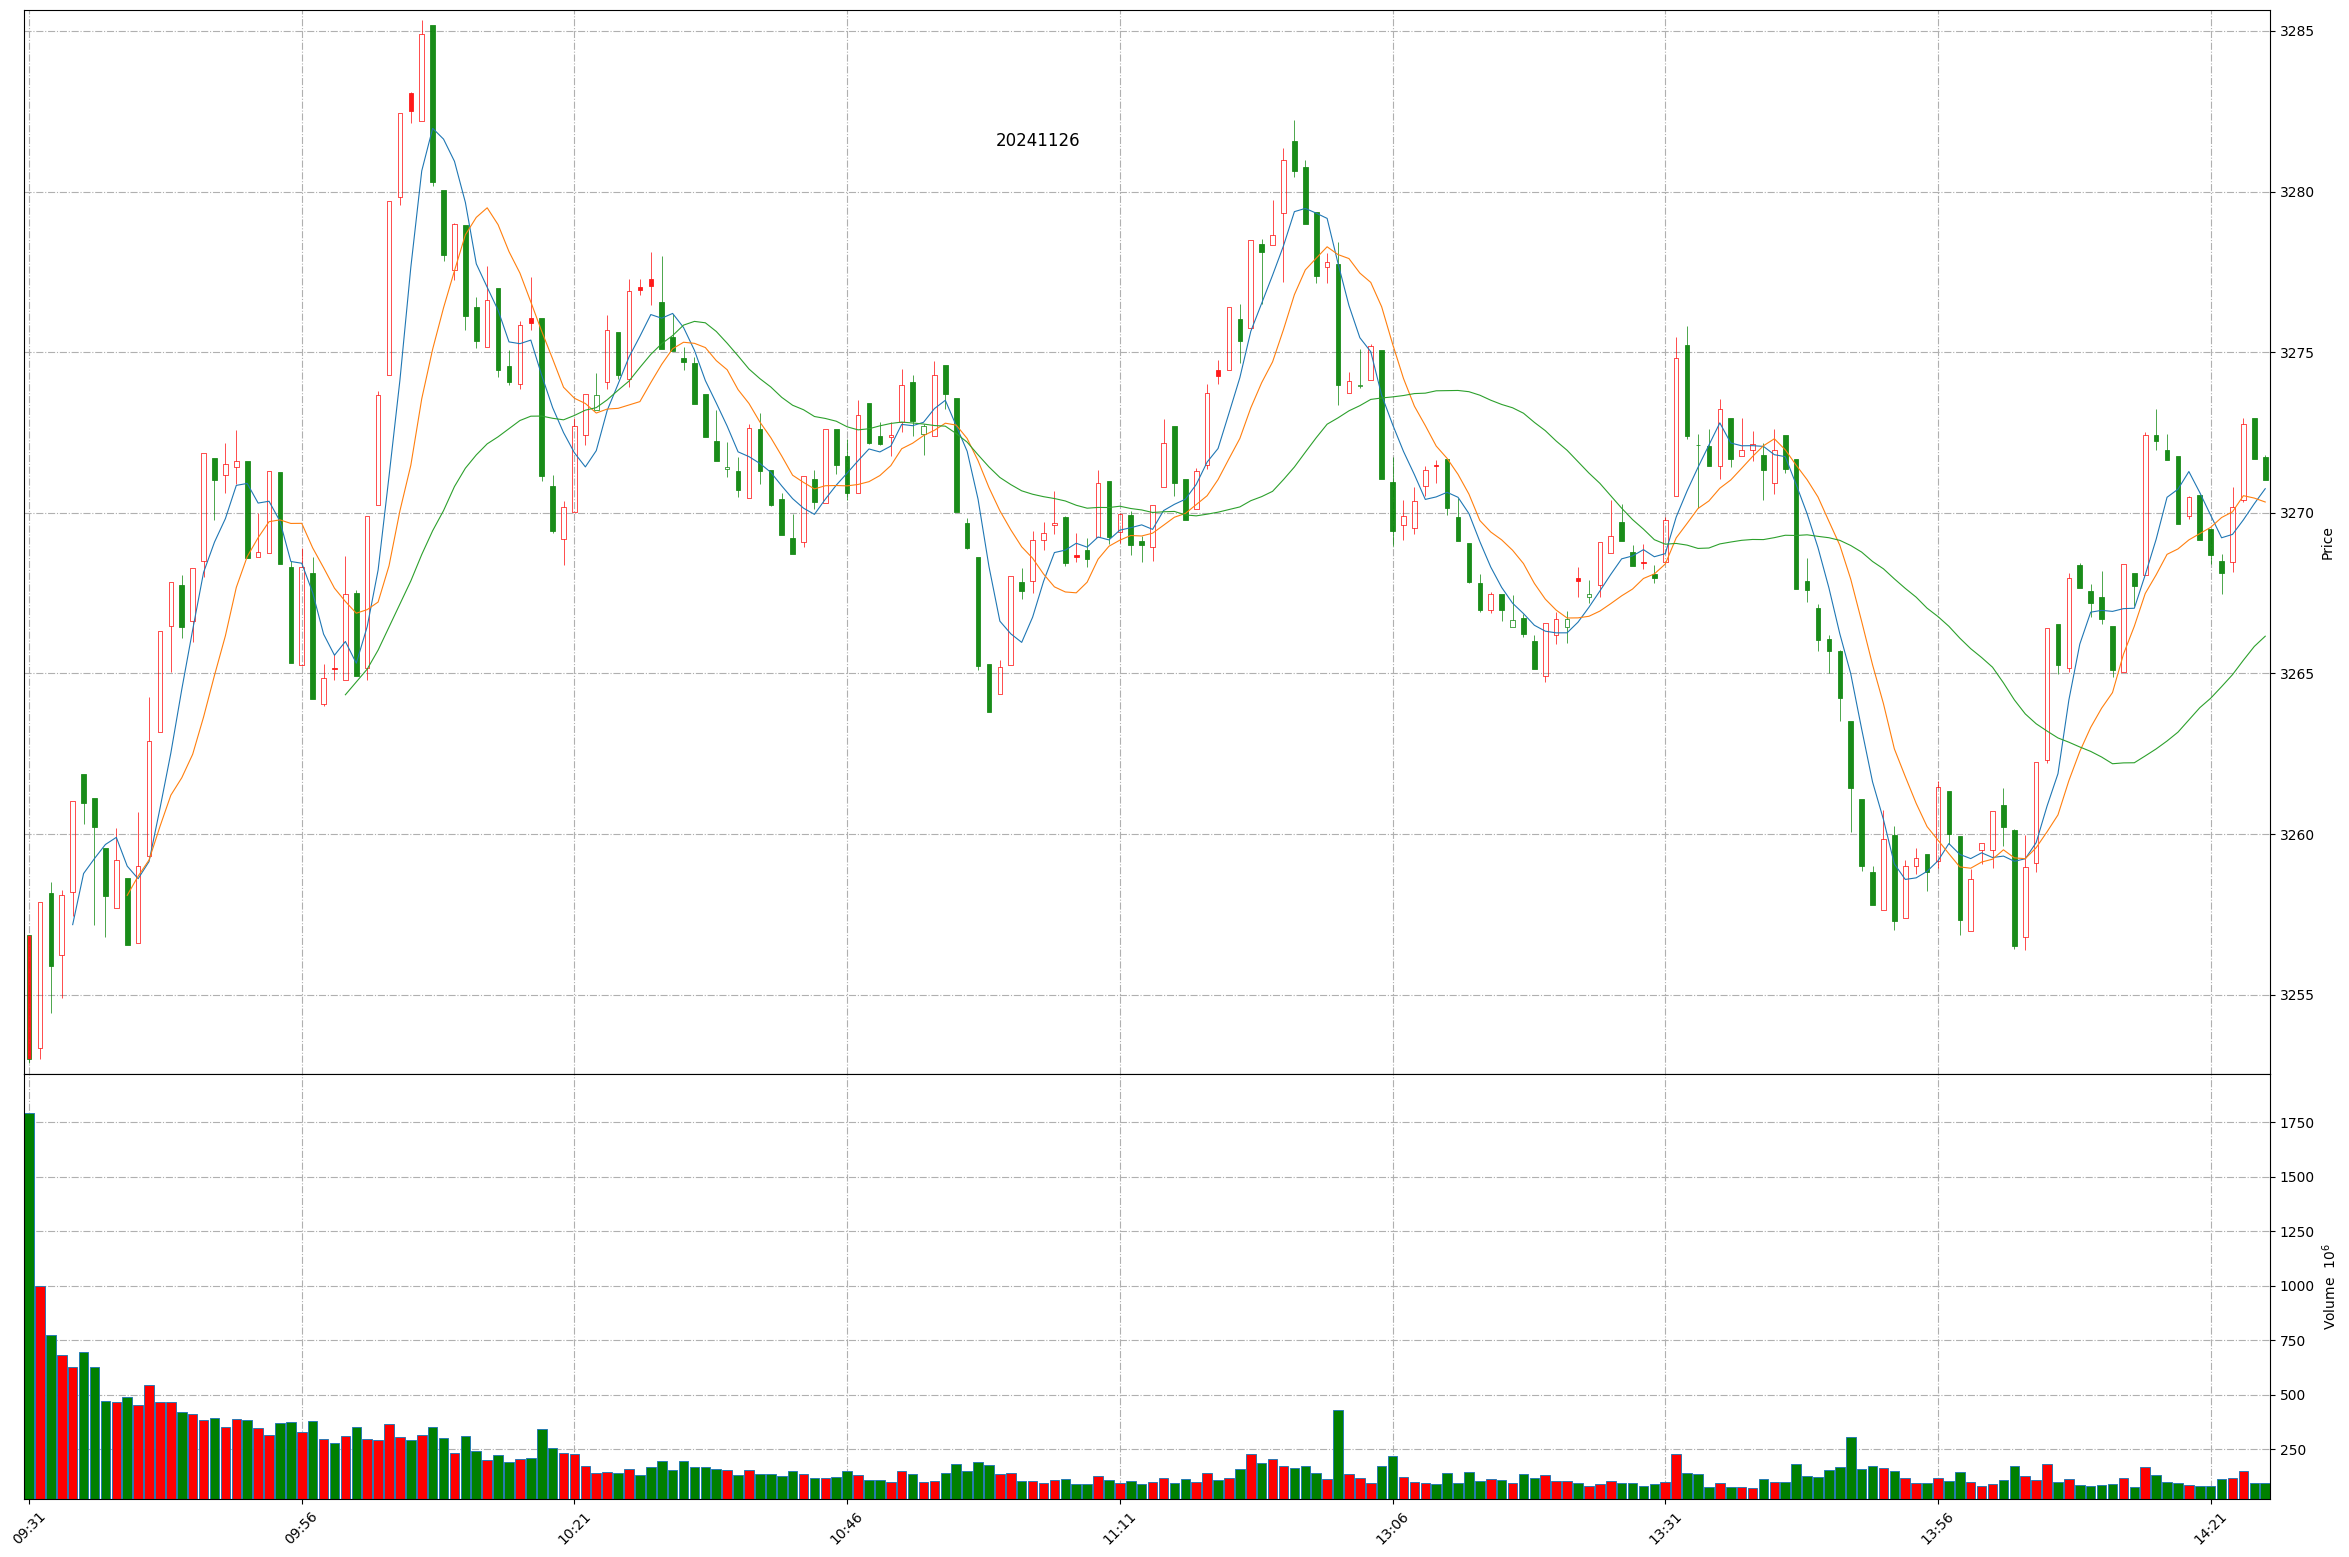
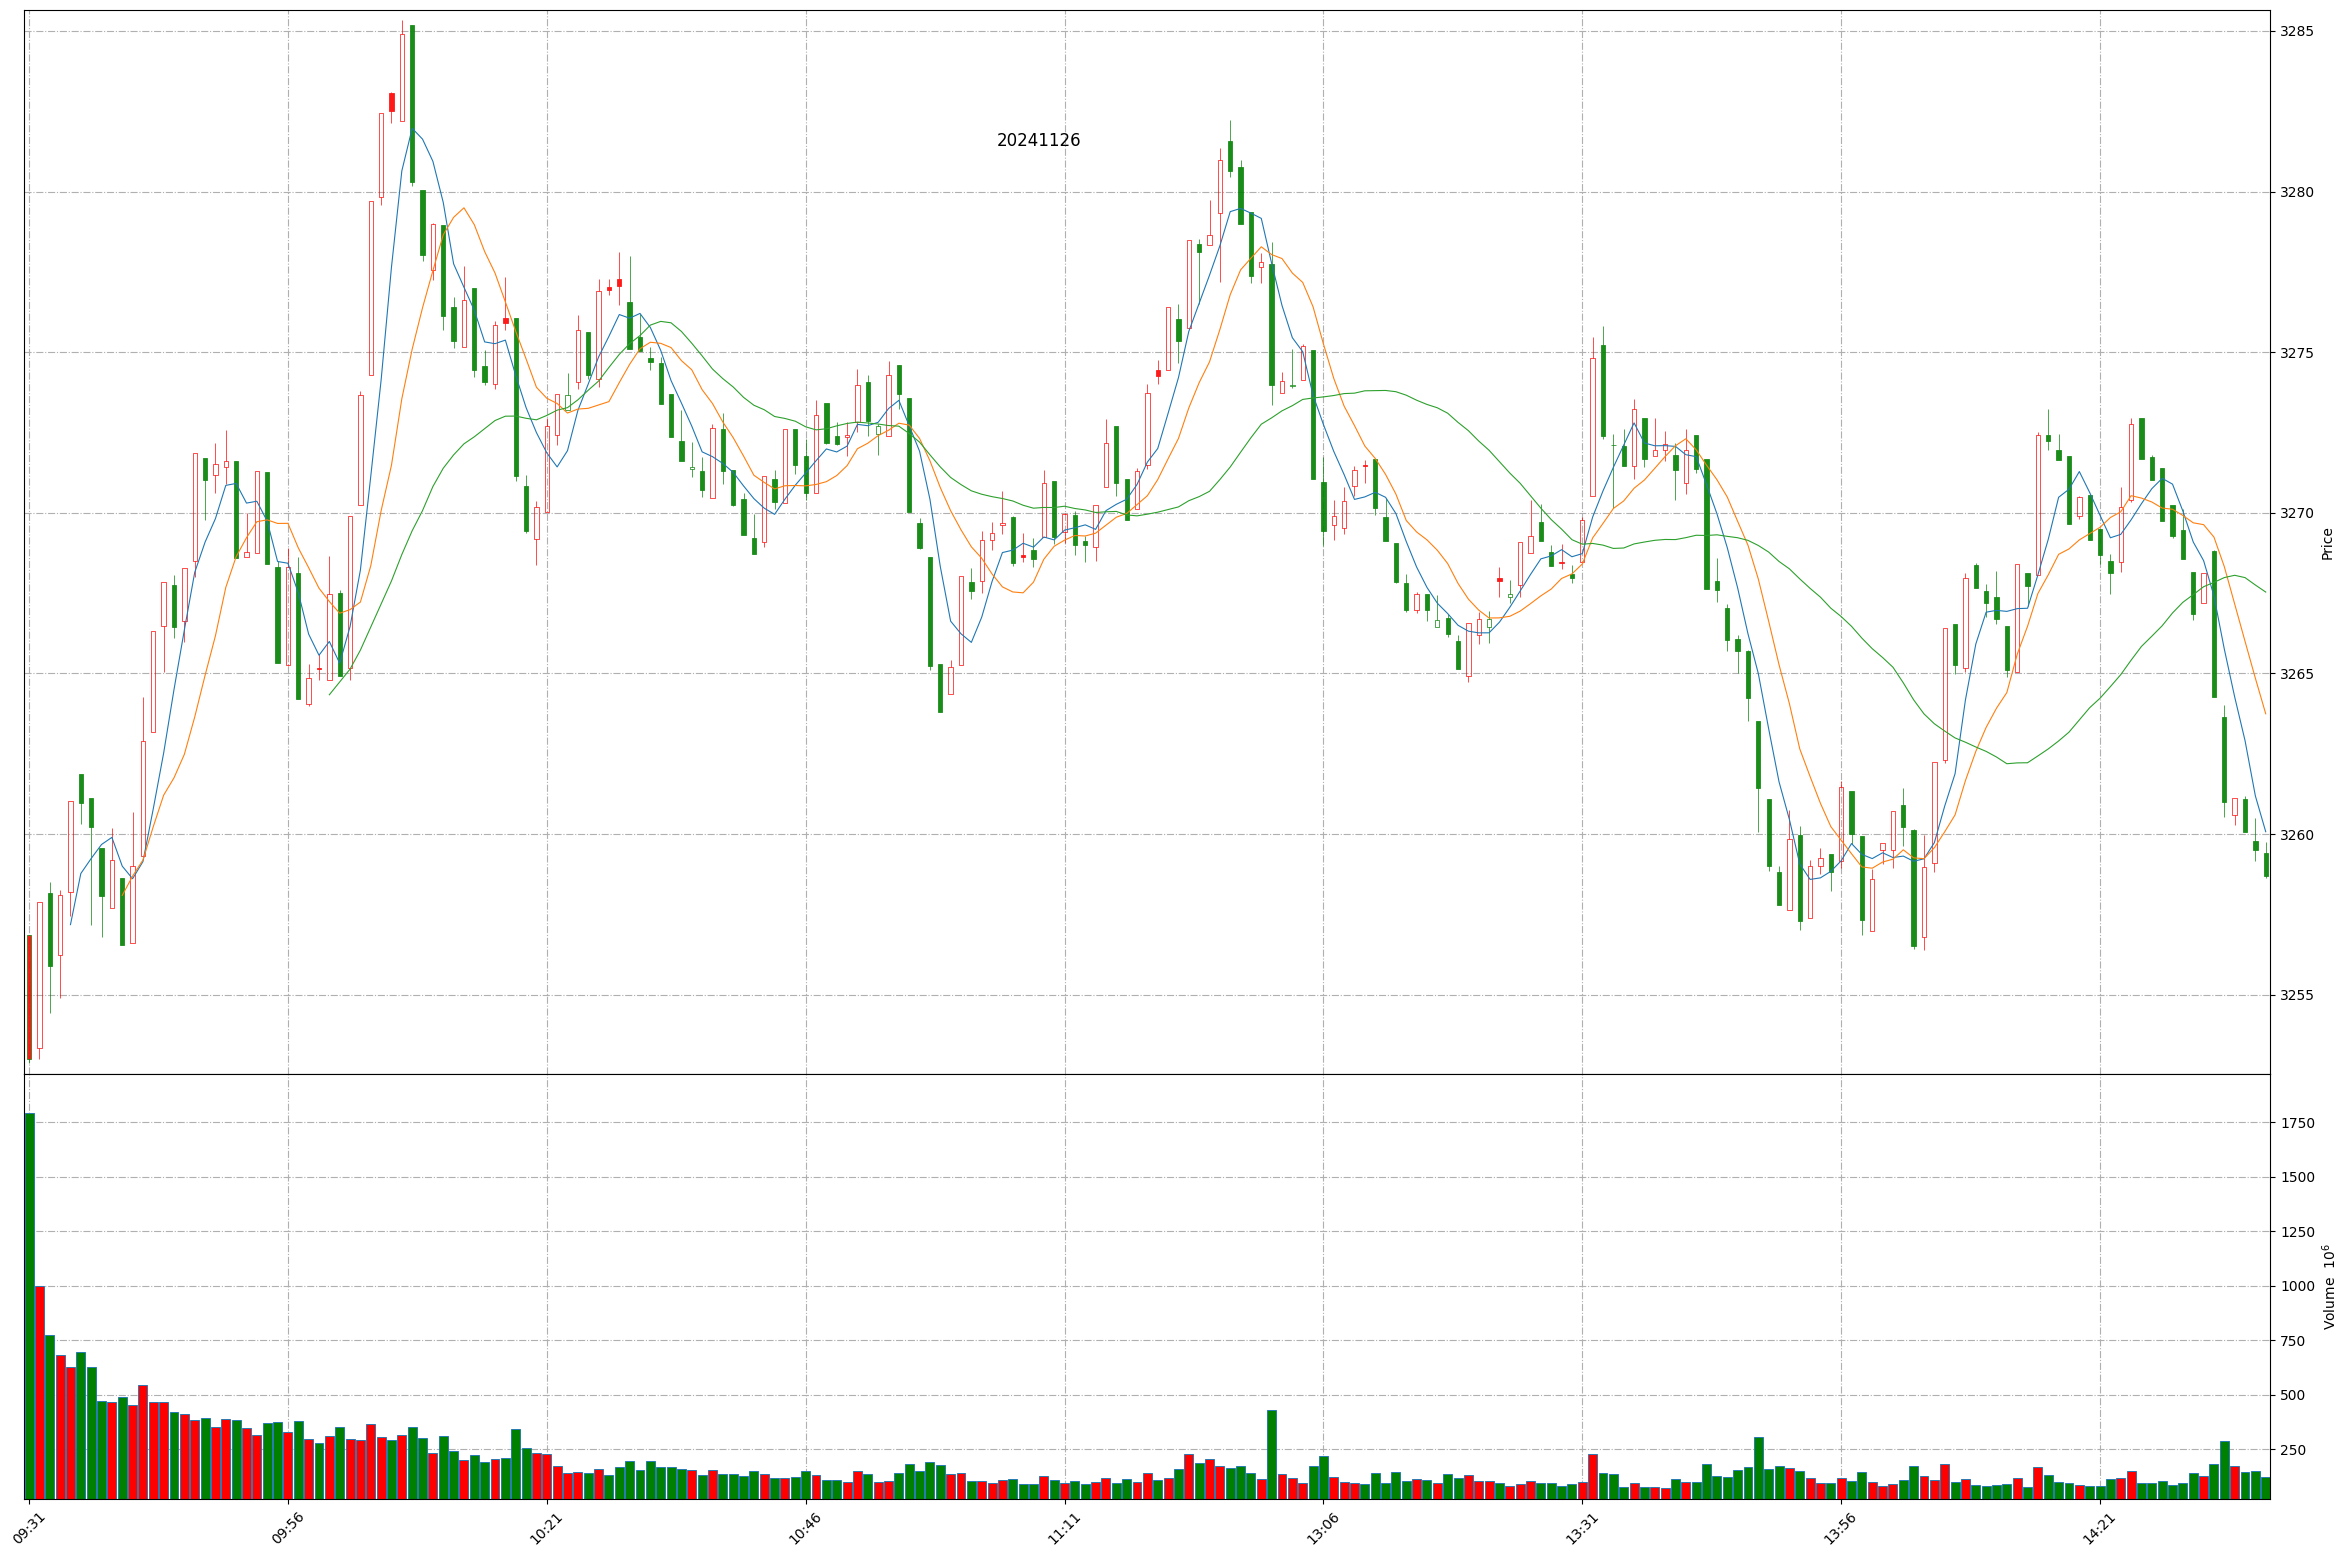
Github action update at 2024-11-26 14:37:08.

diff --git a/README.md b/README.md
@@ -1,11 +1,11 @@
 
 # Daily-A-share-market-quotes 每日 A 股指数（5min 更新）- 20241126
 
-### 上证指数 20241126 14:26
+### 上证指数 20241126 14:37
 ![](./fig/2024/11/20241126-sh000001.png)
 
-### 深证成指 20241126 14:26
+### 深证成指 20241126 14:37
 ![](./fig/2024/11/20241126-sz399001.png)
 
-### 北证50 20241126 14:26
+### 北证50 20241126 14:37
 ![](./fig/2024/11/20241126-bj899050.png)
